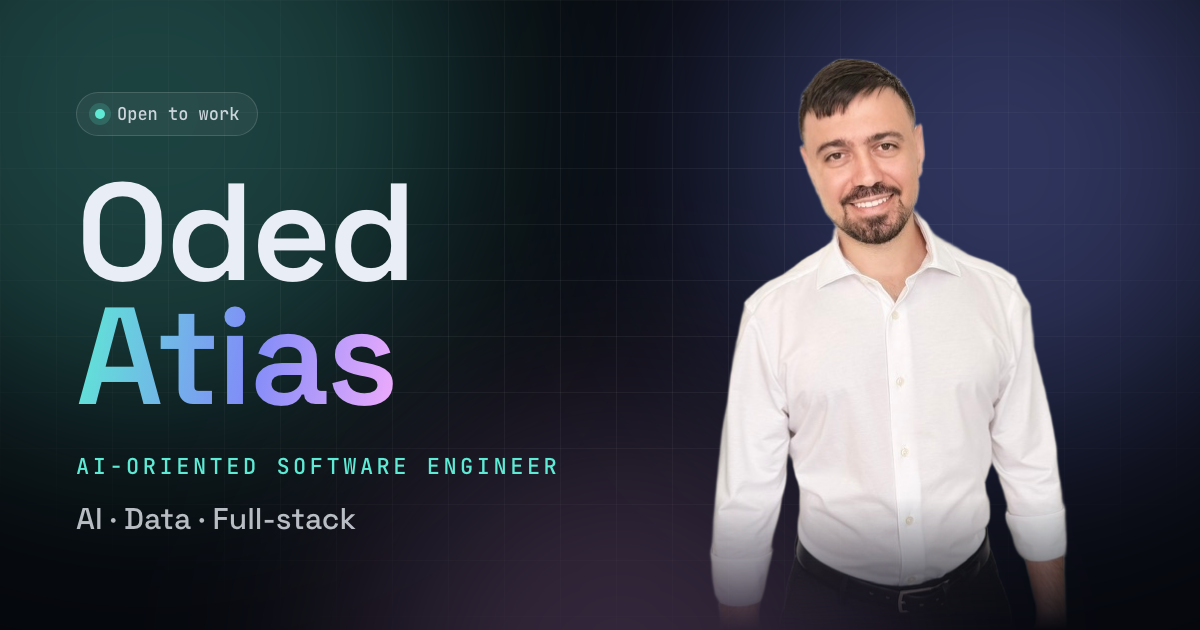
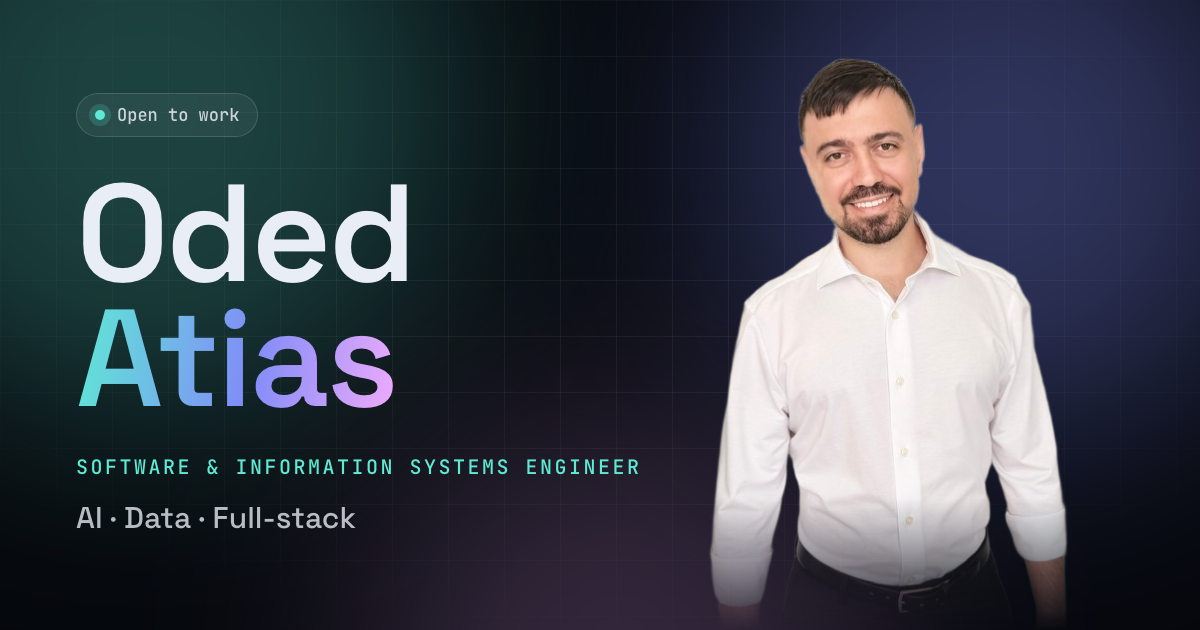
Share image: role line is 'Software & Information Systems Engineer'

diff --git a/tools/og.html b/tools/og.html
@@ -35,7 +35,7 @@
     .dot { width: 10px; height: 10px; border-radius: 50%; background: #5eead4; box-shadow: 0 0 0 6px rgba(94,234,212,.18); }
     h1 { margin-top: 34px; font-size: 138px; line-height: .9; font-weight: 600; letter-spacing: -3px; }
     h1 .grad { display: inline-block; background: linear-gradient(100deg, #5eead4, #818cf8 55%, #f0abfc); -webkit-background-clip: text; background-clip: text; color: transparent; -webkit-text-fill-color: transparent; }
-    .role { margin-top: 34px; font: 500 22px "JetBrains Mono", monospace; letter-spacing: 3.5px; text-transform: uppercase; color: #5eead4; }
+    .role { margin-top: 34px; font: 500 20px "JetBrains Mono", monospace; letter-spacing: 2.5px; text-transform: uppercase; color: #5eead4; }
     .tags { margin-top: 18px; font-size: 30px; font-weight: 500; color: rgba(233,237,245,.78); }
   </style>
 </head>
@@ -48,7 +48,7 @@
   <div class="copy">
     <div class="pill"><span class="dot"></span>Open to work</div>
     <h1>Oded<br /><span class="grad">Atias</span></h1>
-    <div class="role">AI-oriented Software Engineer</div>
+    <div class="role">Software &amp; Information Systems Engineer</div>
     <div class="tags">AI · Data · Full-stack</div>
   </div>
 </body>

diff --git a/index.html b/index.html
@@ -14,7 +14,7 @@
     <meta property="og:image" content="/og-image.png" />
     <meta property="og:image:width" content="1200" />
     <meta property="og:image:height" content="630" />
-    <meta property="og:image:alt" content="Oded Atias, AI-oriented Software Engineer" />
+    <meta property="og:image:alt" content="Oded Atias, Software &amp; Information Systems Engineer" />
     <meta name="twitter:card" content="summary_large_image" />
     <meta property="og:title" content="Oded Atias" />
     <meta
